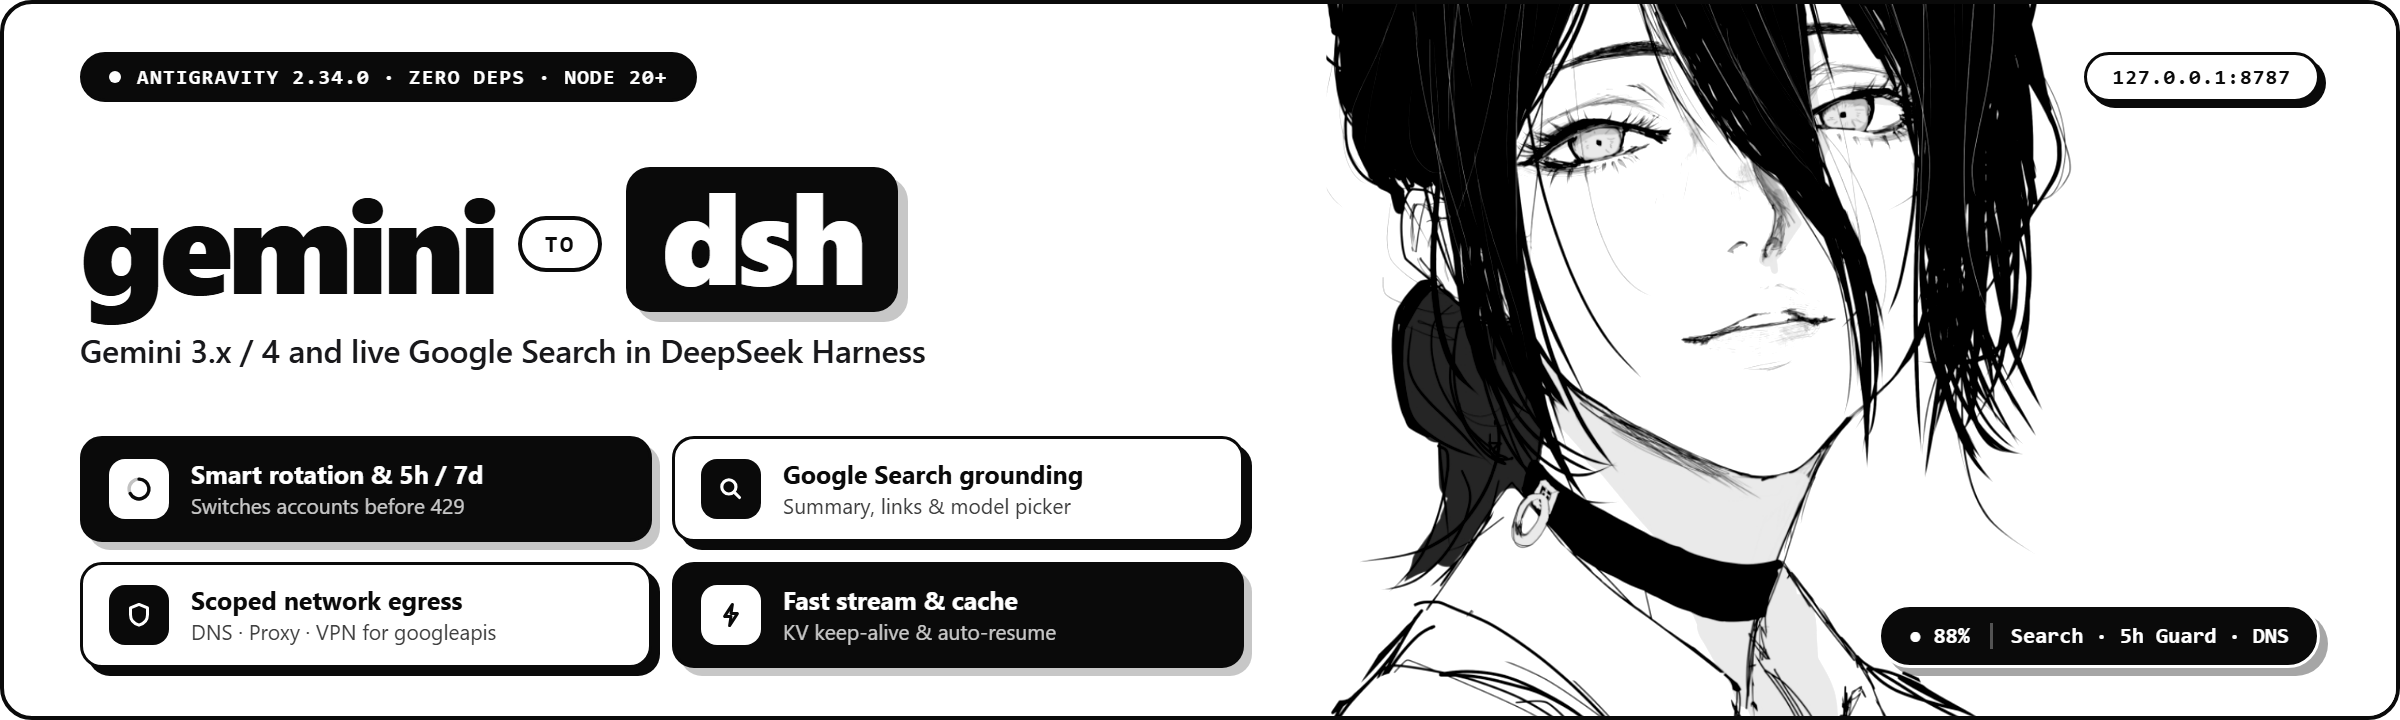
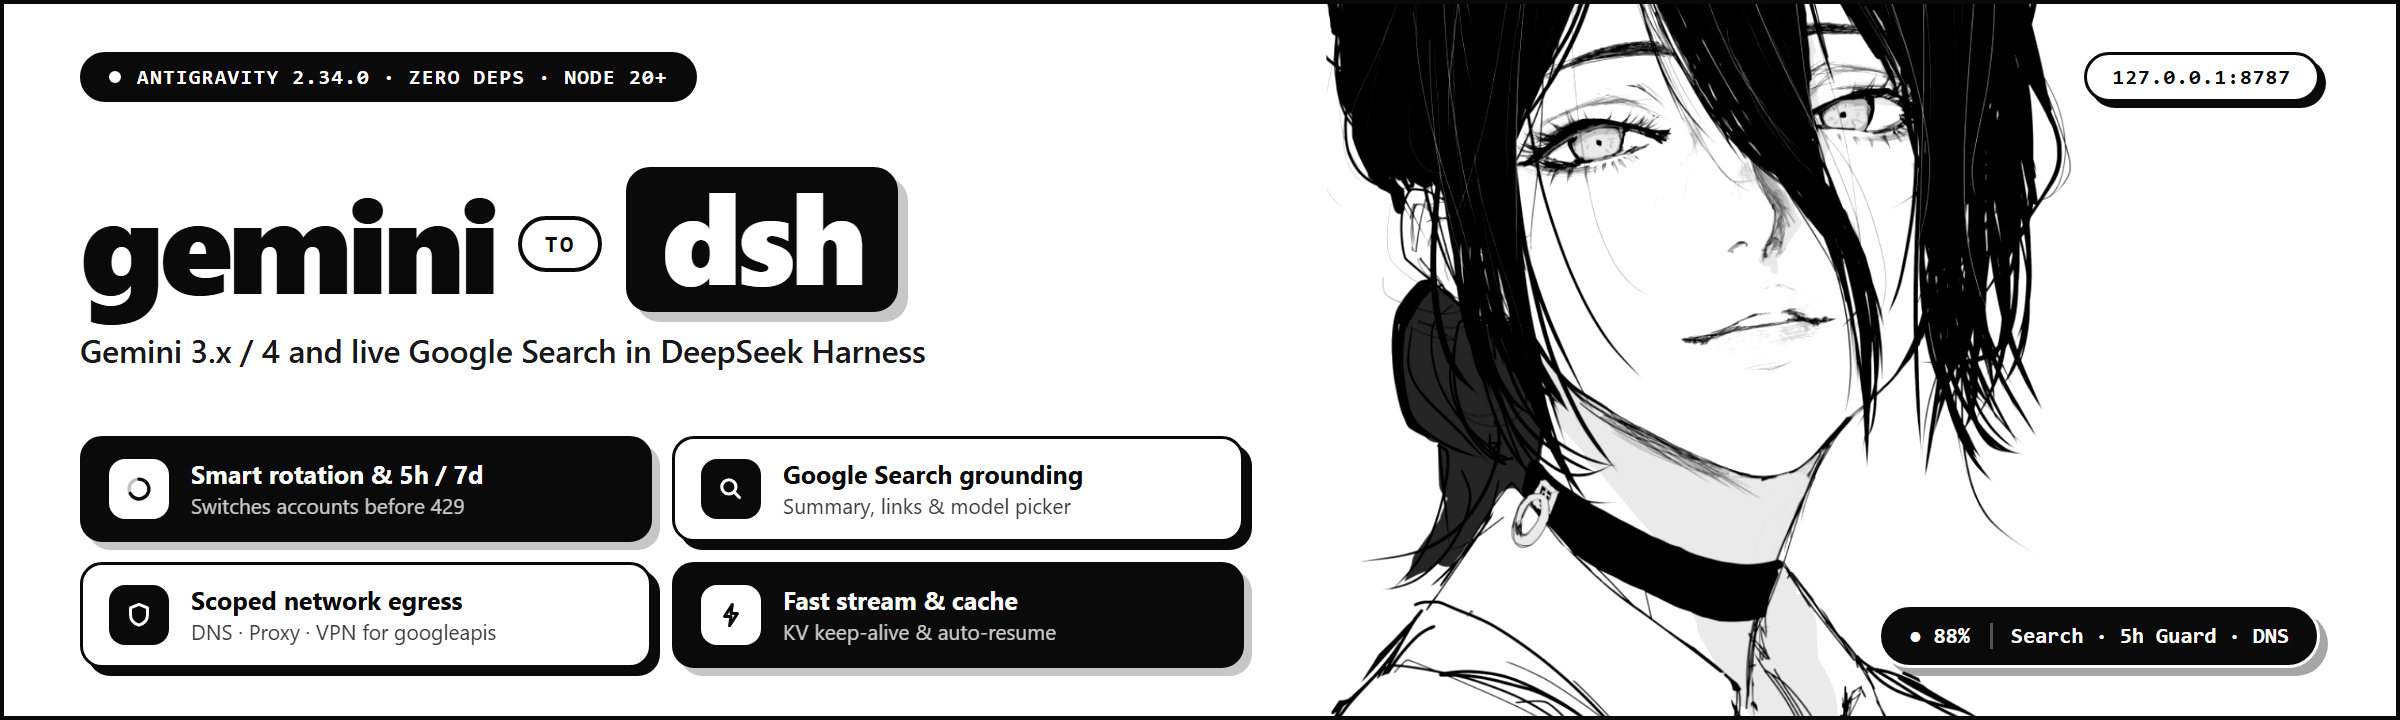
docs: use square outer manga-panel borders to eliminate GitHub img corner artifacts

diff --git a/README.md b/README.md
@@ -1,5 +1,5 @@
 <p align="center">
-  <img src="assets/banner.png?v=9" alt="gemini-to-dsh — Gemini и Google Search в DeepSeek Harness" width="100%">
+  <img src="assets/banner.png?v=10" alt="gemini-to-dsh — Gemini и Google Search в DeepSeek Harness" width="100%">
 </p>
 
 <p align="center">
@@ -21,9 +21,9 @@
 - **Панель в углу экрана** — показывает остаток квоты по окнам и моделям, задержку ответа, активный маршрут и выбор модели для `web-search`.
 
 <p align="center">
-  <img src="assets/panel-dns.png?v=9" alt="Панель квот и маршрута: режим DNS" width="360">
+  <img src="assets/panel-dns.png?v=10" alt="Панель квот и маршрута: режим DNS" width="360">
   &nbsp;&nbsp;
-  <img src="assets/panel-proxy.png?v=9" alt="Панель квот и маршрута: режим Proxy" width="360">
+  <img src="assets/panel-proxy.png?v=10" alt="Панель квот и маршрута: режим Proxy" width="360">
 </p>
 
 ## Быстрая установка

diff --git a/README.en.md b/README.en.md
@@ -1,5 +1,5 @@
 <p align="center">
-  <img src="assets/banner.en.png?v=9" alt="gemini-to-dsh — Gemini and Google Search inside DeepSeek Harness" width="100%">
+  <img src="assets/banner.en.png?v=10" alt="gemini-to-dsh — Gemini and Google Search inside DeepSeek Harness" width="100%">
 </p>
 
 <p align="center">
@@ -21,9 +21,9 @@
 - **Corner overlay panel** — shows per-window and per-model quotas, response latency, active egress route, and the `web-search` model selector.
 
 <p align="center">
-  <img src="assets/panel-dns.png?v=9" alt="Quota and egress panel: DNS mode" width="360">
+  <img src="assets/panel-dns.png?v=10" alt="Quota and egress panel: DNS mode" width="360">
   &nbsp;&nbsp;
-  <img src="assets/panel-proxy.png?v=9" alt="Quota and egress panel: Proxy mode" width="360">
+  <img src="assets/panel-proxy.png?v=10" alt="Quota and egress panel: Proxy mode" width="360">
 </p>
 
 ## Quick install

diff --git a/plugins/quota-overlay/README.md b/plugins/quota-overlay/README.md
@@ -4,8 +4,8 @@ A quota panel for the DSH shell: every account, both Google windows, and the tra
 in one card in the corner. No chat commands; every action is a button.
 
 <p align="center">
-  <img src="../../assets/panel-dns.png?v=9" alt="quota panel, DNS mode" width="360">
-  <img src="../../assets/panel-proxy.png?v=9" alt="quota panel, Proxy mode" width="360">
+  <img src="../../assets/panel-dns.png?v=10" alt="quota panel, DNS mode" width="360">
+  <img src="../../assets/panel-proxy.png?v=10" alt="quota panel, Proxy mode" width="360">
 </p>
 
 ## What it shows
